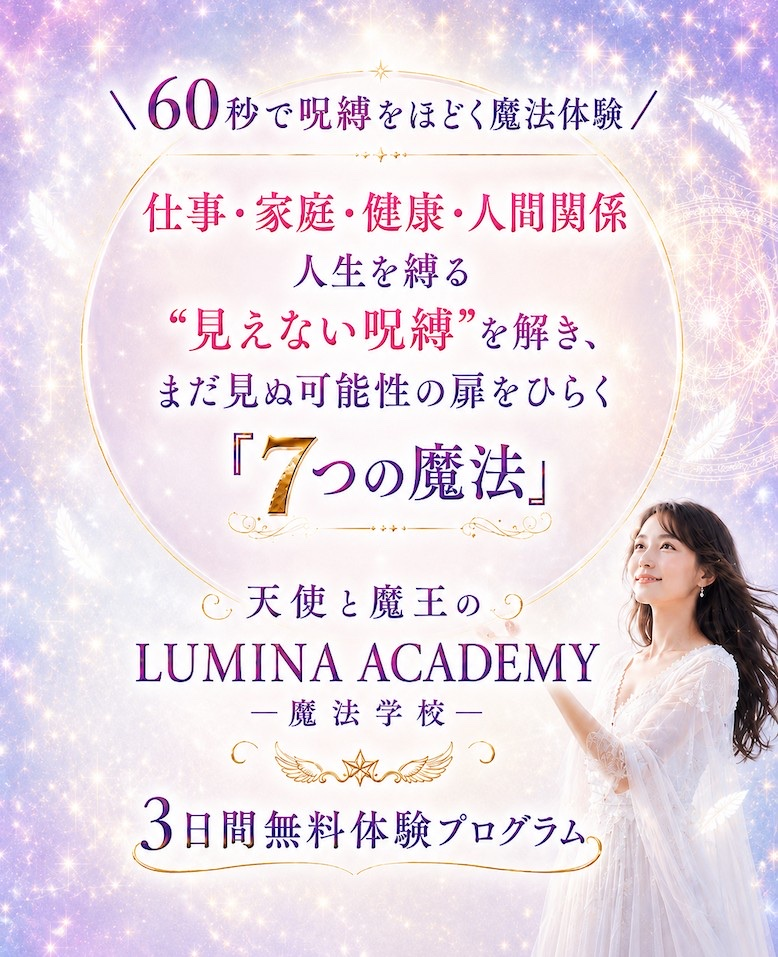
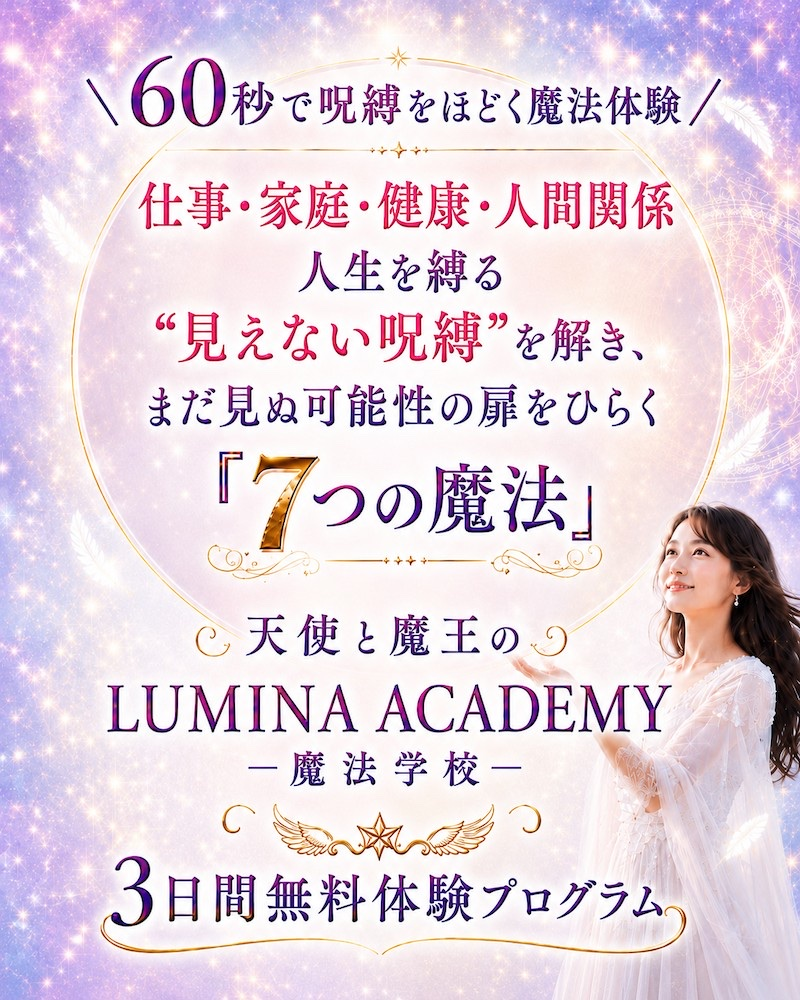
Replace LP4 FV with updated portrait creative.

diff --git a/lumina-academy-sp4.html b/lumina-academy-sp4.html
@@ -693,7 +693,7 @@ p{margin:0 0 1.1em;}
   <!-- 1. FV（LP4: fv-main-4.jpg 縦長〜4:5） -->
   <header class="fv">
     <div class="fv__stage">
-      <img class="fv__img" src="assets/fv-main-4.jpg" alt="仕事・家庭・健康・人間関係。人生を縛る“見えない呪縛”を解き、まだ見ぬ可能性の扉をひらく『7つの魔法』。60秒で呪縛をほどく魔法体験／天使と魔王の LUMINA ACADEMY 魔法学校／3日間無料体験プログラム" width="778" height="957" fetchpriority="high">
+      <img class="fv__img" src="assets/fv-main-4.jpg" alt="仕事・家庭・健康・人間関係。人生を縛る“見えない呪縛”を解き、まだ見ぬ可能性の扉をひらく『7つの魔法』。60秒で呪縛をほどく魔法体験／天使と魔王の LUMINA ACADEMY 魔法学校／3日間無料体験プログラム" width="800" height="1000" fetchpriority="high">
     </div>
     <div class="fv__meta">
       <p class="schedule">
